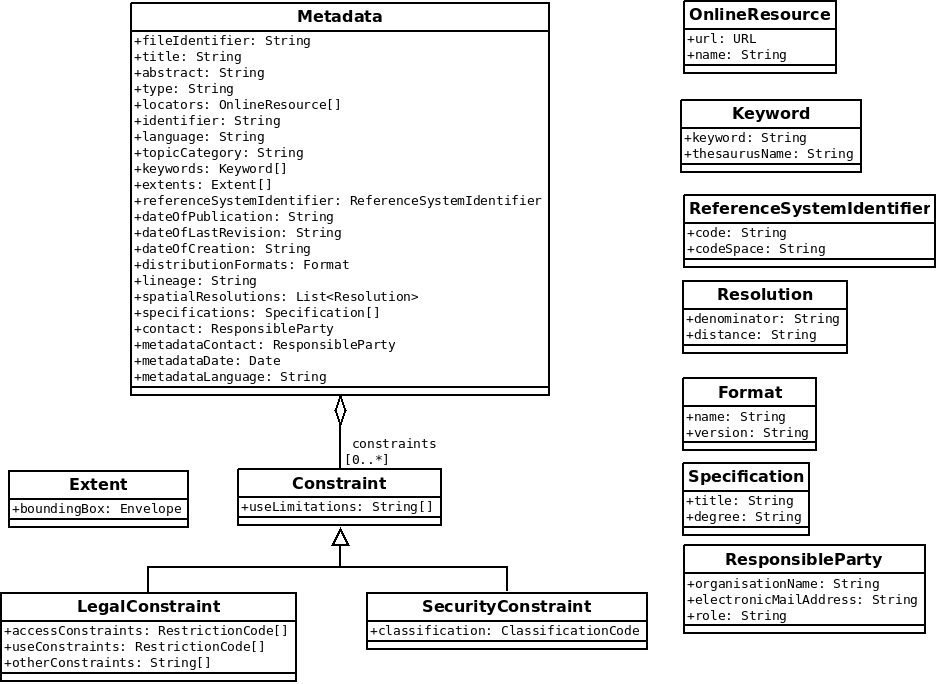
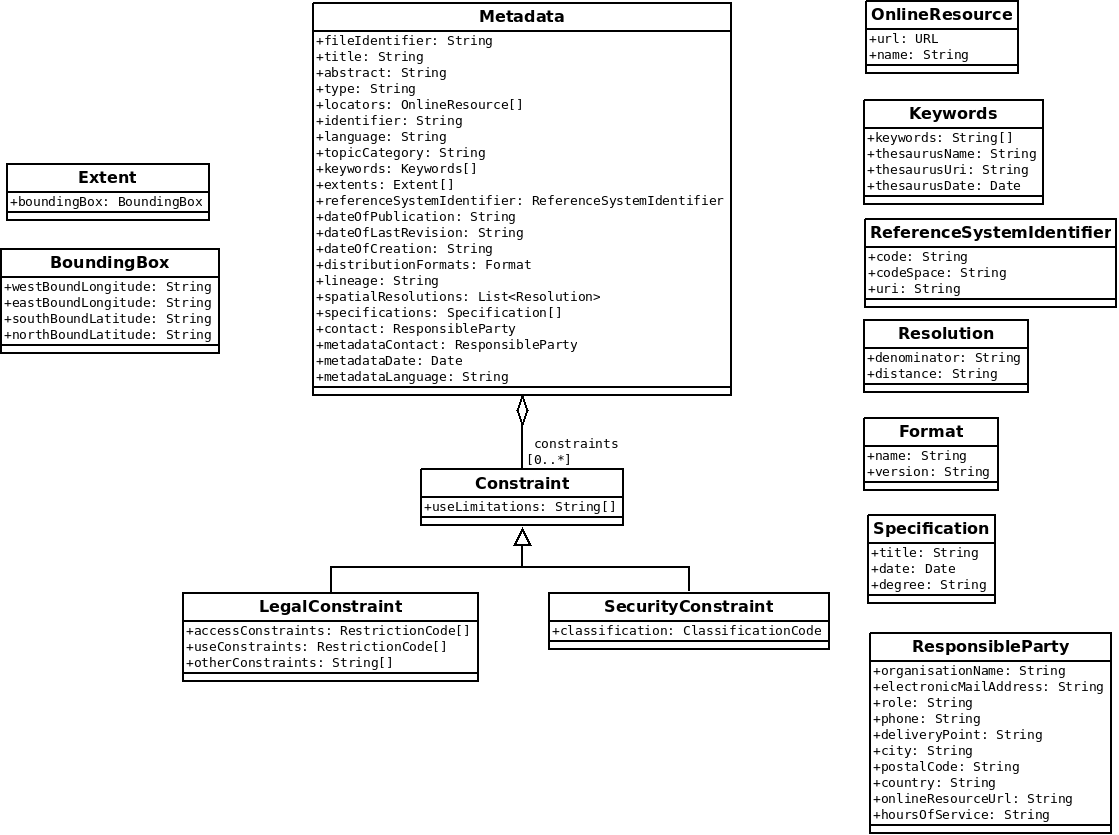
metadata - Keywords - parse theraurusUri

Changed region(s): [[0.0, 0.0, 1.0, 1.0], [0.371, 0.8596, 0.7111, 0.9518]]

diff --git a/validator-core/src/test/java/fr/ign/validator/metadata/gmd/MetadataISO19115Test.java b/validator-core/src/test/java/fr/ign/validator/metadata/gmd/MetadataISO19115Test.java
@@ -189,6 +189,7 @@ public class MetadataISO19115Test extends TestCase {
 				StringUtils.join(keywords.get(0).getKeywords(),';') 
 			);
 			assertNull( keywords.get(0).getThesaurusName() );
+			assertNull( keywords.get(0).getThesaurusUri() );
 			assertNull( keywords.get(0).getThesaurusDate() );
 			
 			assertEquals( 
@@ -196,6 +197,7 @@ public class MetadataISO19115Test extends TestCase {
 				StringUtils.join(keywords.get(1).getKeywords(),';')  
 			);
 			assertEquals( "GEMET - INSPIRE themes, version 1.0", keywords.get(1).getThesaurusName() );
+			assertNull(keywords.get(1).getThesaurusUri() );
 			assertEquals( "2008-06-01", keywords.get(1).getThesaurusDate().toString() );
 		}
 		
@@ -348,6 +350,7 @@ public class MetadataISO19115Test extends TestCase {
 			
 			assertEquals( "données ouvertes", StringUtils.join(keywords.get(1).getKeywords(),';') );
 			assertNull( keywords.get(1).getThesaurusName() );
+			assertNull( keywords.get(1).getThesaurusUri() );
 			assertNull( keywords.get(1).getThesaurusDate() );
 			
 			assertEquals( 
@@ -355,6 +358,7 @@ public class MetadataISO19115Test extends TestCase {
 				StringUtils.join(keywords.get(2).getKeywords(),';')
 			);
 			assertEquals( "GEMET - INSPIRE Themes", keywords.get(2).getThesaurusName() );
+			assertEquals( "http://www.eionet.europa.eu/gemet/inspire_themes", keywords.get(2).getThesaurusUri() );
 			assertEquals( "2008-06-01", keywords.get(2).getThesaurusDate().toString() );
 			
 			assertEquals( 
@@ -362,6 +366,7 @@ public class MetadataISO19115Test extends TestCase {
 				StringUtils.join(keywords.get(3).getKeywords(),';')
 			);
 			assertEquals( "GEMET - INSPIRE Themes", keywords.get(3).getThesaurusName() );
+			assertEquals( "http://www.eionet.europa.eu/gemet/inspire_themes", keywords.get(3).getThesaurusUri() );
 			assertEquals( "2008-06-01", keywords.get(3).getThesaurusDate().toString() );
 		}
 		

diff --git a/validator-core/src/main/java/fr/ign/validator/metadata/Keywords.java b/validator-core/src/main/java/fr/ign/validator/metadata/Keywords.java
@@ -22,15 +22,20 @@ public class Keywords {
 	private List<String> keywords ;
 	
 	/**
-	 * ./gmd:thesaurusName/gmd:CI_Citation/gmd:title
+	 * ./gmd:thesaurusName/gmd:CI_Citation/gmd:title/*
 	 */
 	@JsonInclude(Include.NON_EMPTY)
 	private String thesaurusName ;
 
+	
+	@JsonInclude(Include.NON_EMPTY)
+	private String thesaurusUri ;
+	
 	/**
 	 * ./gmd:thesaurusName/gmd:CI_Citation/gmd:date/gmd:CI_Date/gmd:date/*
 	 */
 	private Date thesaurusDate ;
+	
 	
 	public List<String> getKeywords() {
 		return keywords;
@@ -46,6 +51,15 @@ public class Keywords {
 
 	public void setThesaurusName(String thesaurusName) {
 		this.thesaurusName = thesaurusName;
+	}
+
+
+	public String getThesaurusUri() {
+		return thesaurusUri;
+	}
+
+	public void setThesaurusUri(String thesaurusUri) {
+		this.thesaurusUri = thesaurusUri;
 	}
 
 	public Date getThesaurusDate() {

diff --git a/validator-core/src/main/java/fr/ign/validator/metadata/gmd/MetadataISO19115.java b/validator-core/src/main/java/fr/ign/validator/metadata/gmd/MetadataISO19115.java
@@ -202,6 +202,9 @@ public class MetadataISO19115 implements Metadata {
 			descriptiveKeyword.setThesaurusName(
 				findValue("./gmd:thesaurusName/*/gmd:title/*", keywordElement)
 			);
+			descriptiveKeyword.setThesaurusUri(
+				findValue("./gmd:thesaurusName/*/gmd:title/*/@xlink:href", keywordElement)
+			);
 			descriptiveKeyword.setThesaurusDate(
 				parseCitationDate(findSingleElement("./gmd:thesaurusName/*/gmd:date", keywordElement))
 			);
